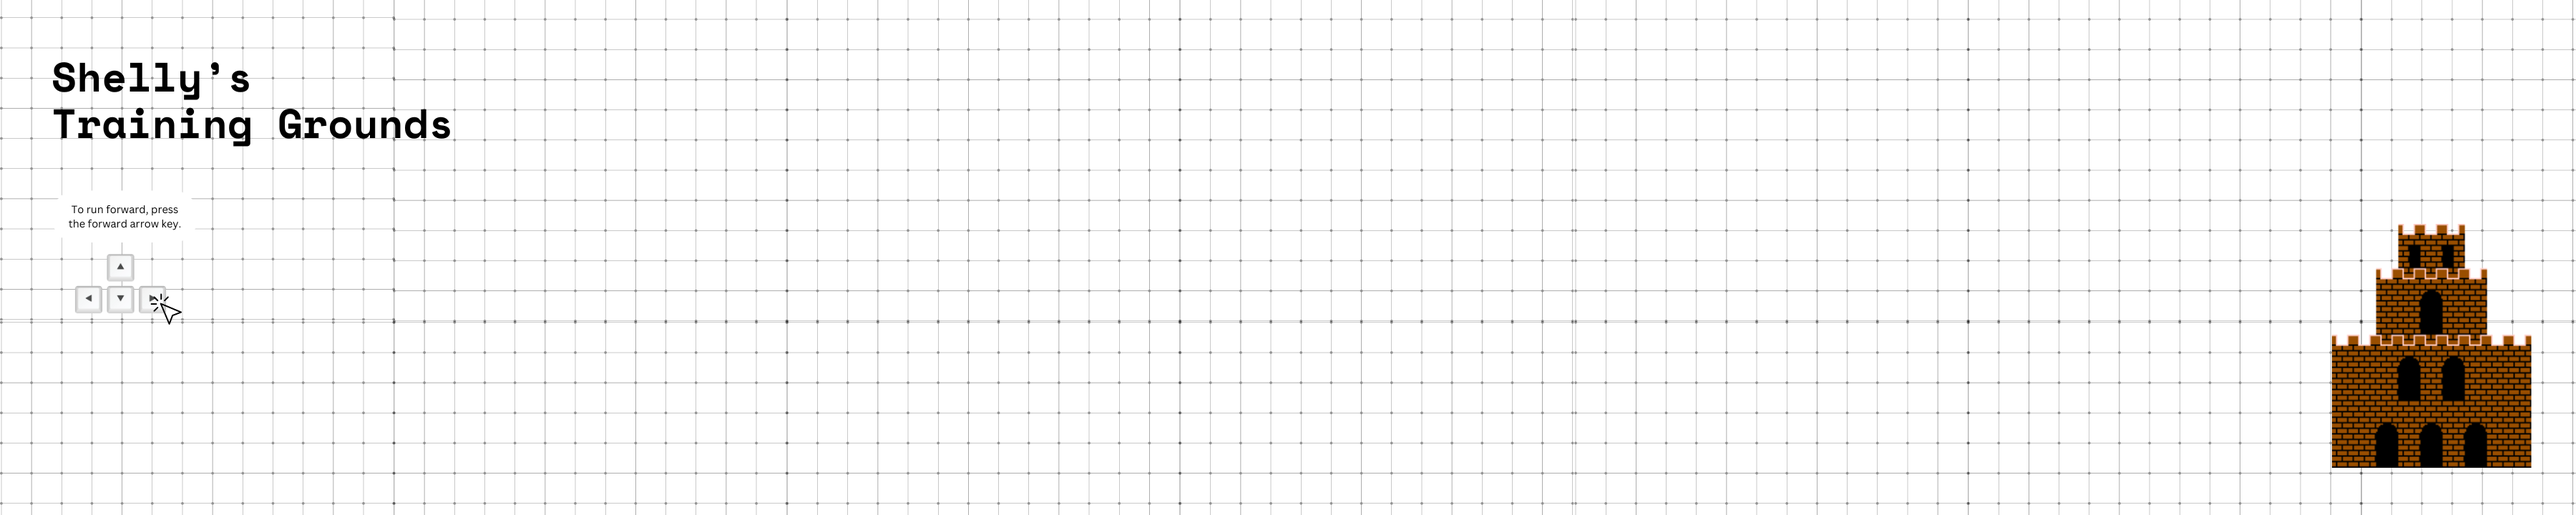
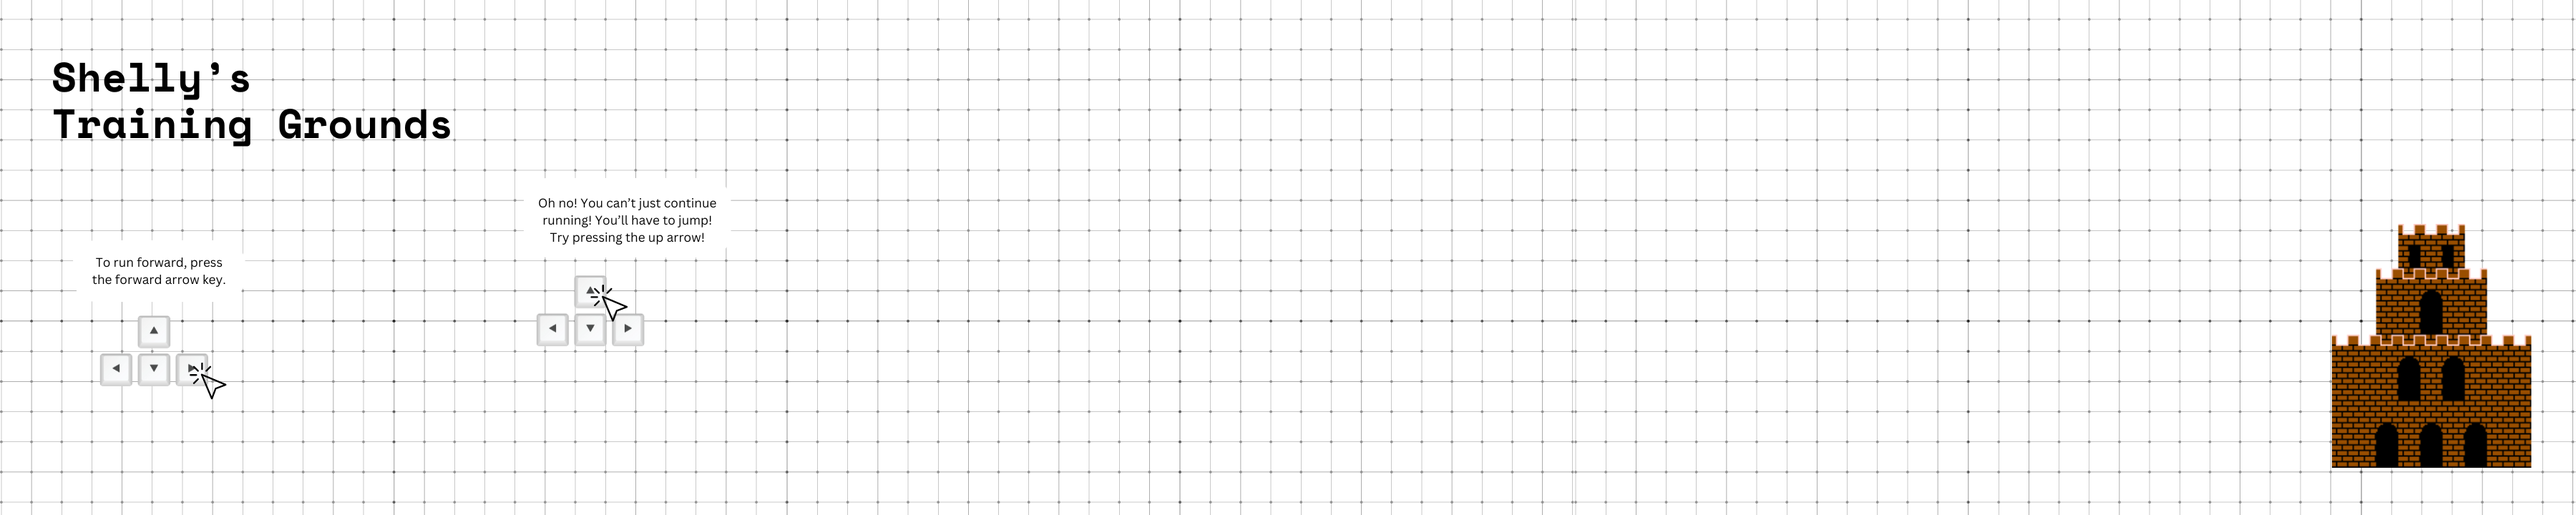
Minor Changes
Demo Map changes and clear/reset chat area messages the map reloads (rather than the back button being clicked since clients don't press it).

diff --git a/SBSRModelControl.java b/SBSRModelControl.java
@@ -410,7 +410,8 @@ public class SBSRModelControl extends JPanel implements ActionListener, KeyListe
 			view.ChatArea.append("                    best brawlers in town!\n\n");
 			view.ChatArea.append("   [ Shelly ]: Think you got what it takes? Follow my lead \n");
 			view.ChatArea.append("                    and you'll become a PRO brawler in no time!\n\n ");
-			view.ChatArea.append("   [ Server ]: Shelly wants you to follow her...");
+			view.ChatArea.append("   [ Server ]: Shelly wants you to meet her at the end of the map...\n");
+			view.ChatArea.append("                    Keep right.");
 			
 			
 			//Have a series of bricks blocking the character until they finish the task that is assigned."
@@ -669,6 +670,8 @@ public class SBSRModelControl extends JPanel implements ActionListener, KeyListe
 			if (blnHost != true){
 				view.PlayBackButton.setEnabled(false);
 			}
+			
+			view.ChatArea.setText("");
 
 		} else if (evt.getSource() == view.DemoOkButton){
 			blnOK = true;
